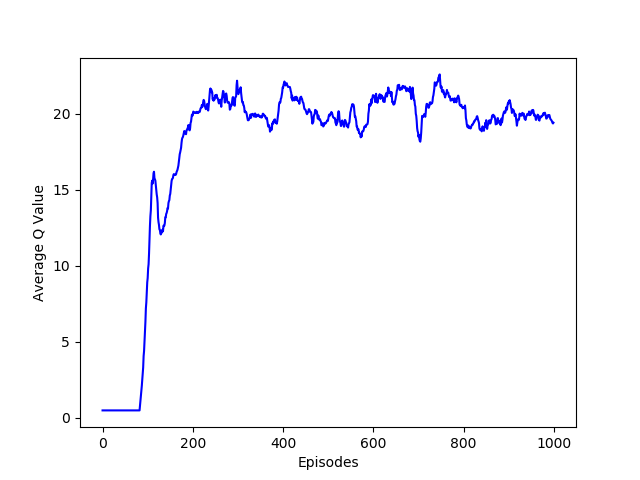
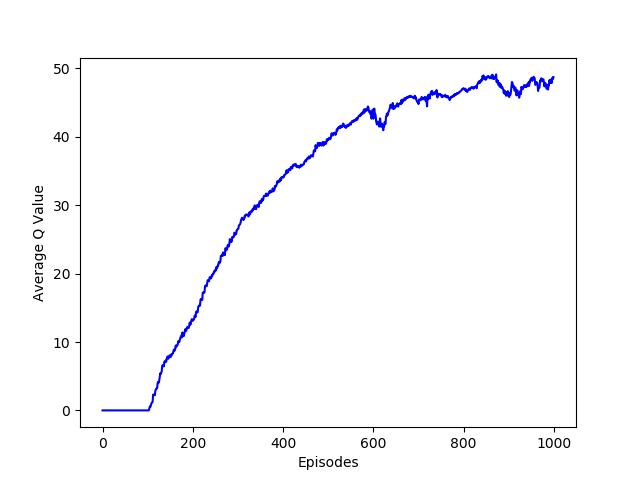
plots added

diff --git a/cartpole/cartpole_dqn.py b/cartpole/cartpole_dqn.py
@@ -17,7 +17,7 @@ EPISODES = 1000  # Maximum number of episodes
 class DQNAgent:
     # Constructor for the agent (invoked when DQN is first called in main)
     def __init__(self, state_size, action_size):
-        self.check_solve = False  # If True, stop if you satisfy solution confition
+        self.check_solve = True  # If True, stop if you satisfy solution confition
         self.render = True  # If you want to see Cartpole learning, then change to True
 
         # Get size of state and action
@@ -27,13 +27,13 @@ class DQNAgent:
         # Modify here
 
         # Set hyper parameters for the DQN. Do not adjust those labeled as Fixed.
-        self.discount_factor = 0.95
-        self.learning_rate = 0.01
+        self.discount_factor = 0.98
+        self.learning_rate = 0.005
         self.epsilon = 0.02  # Fixed
         self.batch_size = 32  # Fixed
-        self.memory_size = 1000
+        self.memory_size = 2000
         self.train_start = 1000  # Fixed
-        self.target_update_frequency = 1
+        self.target_update_frequency = 5
 
         # Number of test states for Q value plots
         self.test_state_no = 10000
@@ -56,9 +56,9 @@ class DQNAgent:
     # Tip: Consult https://keras.io/getting-started/sequential-model-guide/
     def build_model(self):
         model = Sequential()
-        model.add(Dense(24, input_dim=self.state_size, activation='relu',
+        model.add(Dense(64, input_dim=self.state_size, activation='relu',
                         kernel_initializer='he_uniform'))
-        model.add(Dense(24, activation='relu',
+        model.add(Dense(32, activation='relu',
                         kernel_initializer='he_uniform'))
         model.add(Dense(self.action_size, activation='linear',
                         kernel_initializer='he_uniform'))
@@ -133,7 +133,6 @@ class DQNAgent:
 
         ###############################################################################
         ###############################################################################
-
         # Train the inner loop network
         self.model.fit(update_input, target, batch_size=self.batch_size,
                        epochs=1, verbose=0)
